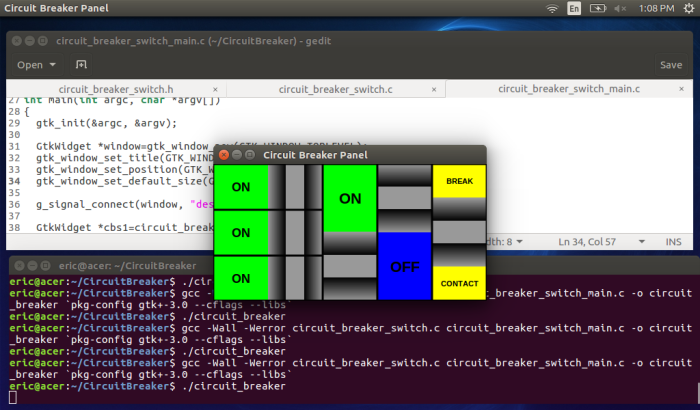
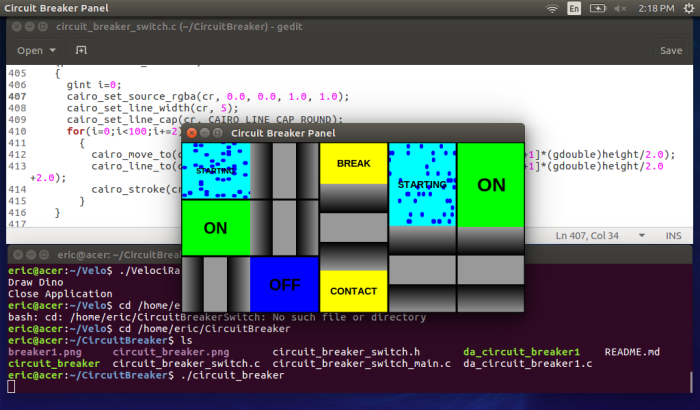
Change circuit breaker picture.

diff --git a/Misc/CircuitBreakerSwitch/README.md b/Misc/CircuitBreakerSwitch/README.md
@@ -1,6 +1,6 @@
 
 
---A circuit breaker switch widget. It has four simple states that it can be in. Easy to add more states or change things around as needed.
+--A circuit breaker switch widget with four states. Watch the electrons flow. Easy to change colors and things around. The electrons might not be needed.
 
 
 Circuit Breaker Switches
